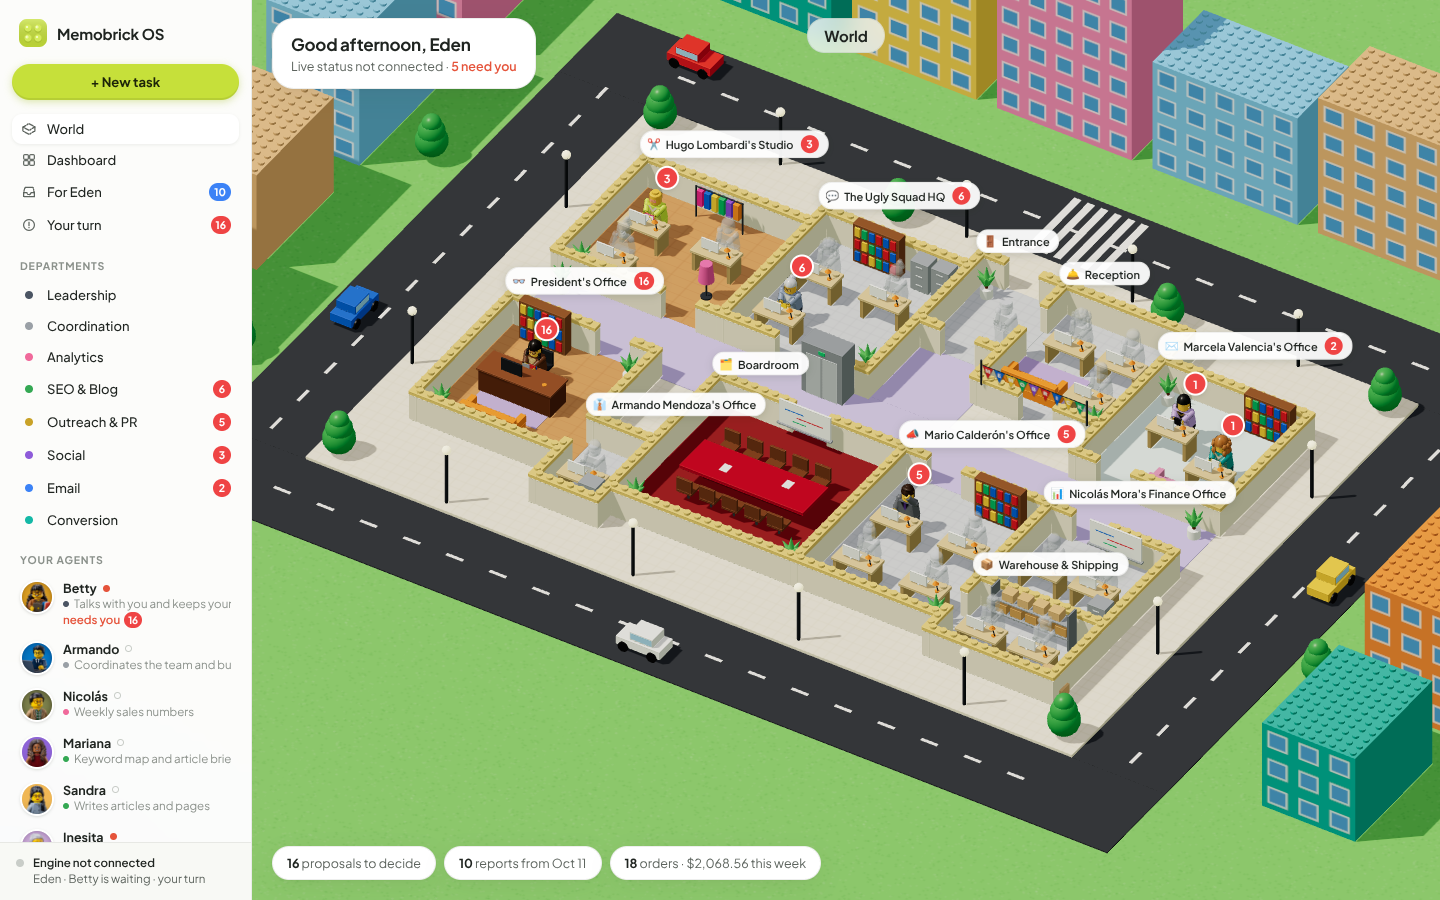
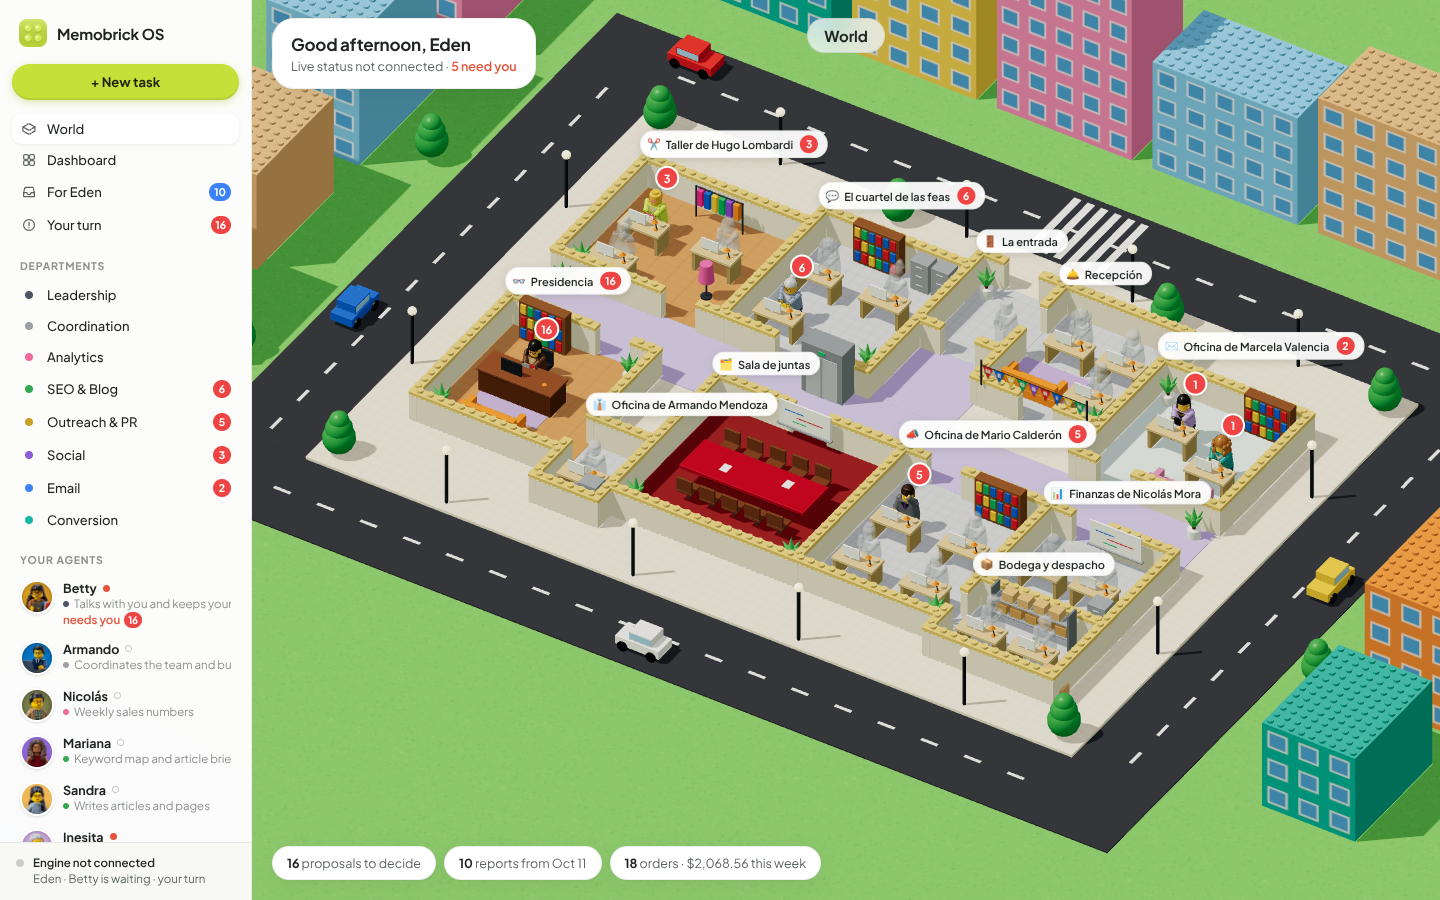
Memobrick OS: keep the office names in Spanish, as in the show
Claude-Session: https://claude.ai/code/session_01AMLDVzMa2aGkQPfaF6oXBQ

diff --git a/os/src/world/layout.ts b/os/src/world/layout.ts
@@ -1,6 +1,6 @@
 // The Memobrick office floor plan, in studs (1 stud = 0.8 scene units).
-// x grows to the right, z grows toward the camera. Rooms follow the show's
-// places ("Mario Calderón's Office" style) and hold Memobrick departments.
+// x grows to the right, z grows toward the camera. Rooms keep the show's Spanish
+// names ("Oficina de Mario Calderón" style) and hold Memobrick departments.
 
 export type Side = 'n' | 's' | 'e' | 'w';
 export type Floor = 'tile' | 'wood' | 'carpet' | 'red';
@@ -43,7 +43,7 @@ export const OFFICE = { w: 64, d: 44 };
 export const ROOMS: Room[] = [
   {
     id: 'taller',
-    label: "Hugo Lombardi's Studio",
+    label: 'Taller de Hugo Lombardi',
     icon: '✂',
     x: 0, z: 4, w: 16, d: 14,
     floor: 'wood',
@@ -58,7 +58,7 @@ export const ROOMS: Room[] = [
   },
   {
     id: 'cuartel',
-    label: 'The Ugly Squad HQ',
+    label: 'El cuartel de las feas',
     icon: '💬',
     x: 16, z: 2, w: 14, d: 16,
     floor: 'tile',
@@ -74,7 +74,7 @@ export const ROOMS: Room[] = [
   },
   {
     id: 'entrada',
-    label: 'Entrance',
+    label: 'La entrada',
     icon: '🚪',
     x: 30, z: 0, w: 8, d: 10,
     floor: 'tile',
@@ -85,7 +85,7 @@ export const ROOMS: Room[] = [
   },
   {
     id: 'recepcion',
-    label: 'Reception',
+    label: 'Recepción',
     icon: '🛎',
     x: 38, z: 0, w: 12, d: 14,
     floor: 'tile',
@@ -100,7 +100,7 @@ export const ROOMS: Room[] = [
   },
   {
     id: 'marcela',
-    label: "Marcela Valencia's Office",
+    label: 'Oficina de Marcela Valencia',
     icon: '✉',
     x: 50, z: 4, w: 14, d: 14,
     floor: 'carpet',
@@ -115,7 +115,7 @@ export const ROOMS: Room[] = [
   },
   {
     id: 'presidencia',
-    label: "President's Office",
+    label: 'Presidencia',
     icon: '👓',
     x: 0, z: 25, w: 14, d: 15,
     floor: 'wood',
@@ -132,7 +132,7 @@ export const ROOMS: Room[] = [
   },
   {
     id: 'armando',
-    label: "Armando Mendoza's Office",
+    label: 'Oficina de Armando Mendoza',
     icon: '👔',
     x: 14, z: 35, w: 6, d: 9,
     floor: 'tile',
@@ -143,7 +143,7 @@ export const ROOMS: Room[] = [
   },
   {
     id: 'boardroom',
-    label: 'Boardroom',
+    label: 'Sala de juntas',
     icon: '🗂',
     x: 20, z: 25, w: 18, d: 17,
     floor: 'red',
@@ -159,7 +159,7 @@ export const ROOMS: Room[] = [
   },
   {
     id: 'mario',
-    label: "Mario Calderón's Office",
+    label: 'Oficina de Mario Calderón',
     icon: '📣',
     x: 38, z: 25, w: 14, d: 17,
     floor: 'tile',
@@ -173,7 +173,7 @@ export const ROOMS: Room[] = [
   },
   {
     id: 'finanzas',
-    label: "Nicolás Mora's Finance Office",
+    label: 'Finanzas de Nicolás Mora',
     icon: '📊',
     x: 52, z: 25, w: 12, d: 11,
     floor: 'tile',
@@ -187,7 +187,7 @@ export const ROOMS: Room[] = [
   },
   {
     id: 'bodega',
-    label: 'Warehouse & Shipping',
+    label: 'Bodega y despacho',
     icon: '📦',
     x: 52, z: 36, w: 12, d: 8,
     floor: 'tile',
@@ -201,7 +201,7 @@ export const ROOMS: Room[] = [
   },
 ];
 
-/** Overflow seats in the Boardroom for agents added later without a room. */
+/** Overflow seats in the Sala de juntas for agents added later without a room. */
 export const OVERFLOW_SEATS = [
   { x: 4, z: 4 }, { x: 14, z: 4 }, { x: 4, z: 14 }, { x: 14, z: 14 },
   { x: 2.5, z: 9 }, { x: 15.5, z: 9 },

diff --git a/os/src/world/layout.test.ts b/os/src/world/layout.test.ts
@@ -14,7 +14,7 @@ describe('office layout', () => {
     expect(new Set(spots).size).toBe(spots.length);
   });
 
-  it('sends unknown characters to the boardroom', () => {
+  it('sends unknown characters to the Sala de juntas', () => {
     expect(placeAgents(['newcomer']).get('newcomer')?.roomId).toBe('boardroom');
   });
 

diff --git a/os/HANDOFF.md b/os/HANDOFF.md
@@ -3,7 +3,7 @@
 Read this first in a new session.
 
 ## Decisions so far
-- App: Memobrick OS, a local dashboard where the marketing agents are a LEGO-style office ("World"). UI, room names, roles and Betty's chat are in English (switched from Spanish at the owner's request after Stage 4). Owner's name for greetings: Eden.
+- App: Memobrick OS, a local dashboard where the marketing agents are a LEGO-style office ("World"). UI, roles and Betty's chat are in English (switched from Spanish at the owner's request after Stage 4); office names stay in Spanish, as in the show. Owner's name for greetings: Eden.
 - Banner and company everywhere: **Memobrick** (all characters work for Memobrick).
 - Cast and roles: `agents.json`. Betty = the approval desk the owner talks to (`aprobaciones`, department Leadership, sits in President's Office, holds every pending item in `marketing/approvals/queue.md`). Armando = the marketing-coordinator agent (Armando Mendoza's Office). Swapped at the owner's request after Stage 3. Mariana = seo-strategist. Machine tags are blank until the owner sets them.
 - Portrait style: **photographic LEGO macro shots** made with an image model, matching `reference/*.jpg`. The procedural Three.js builder in `src/minifig/` is NOT the portrait style; keep it only for tiny figures in the 3D office if useful.
